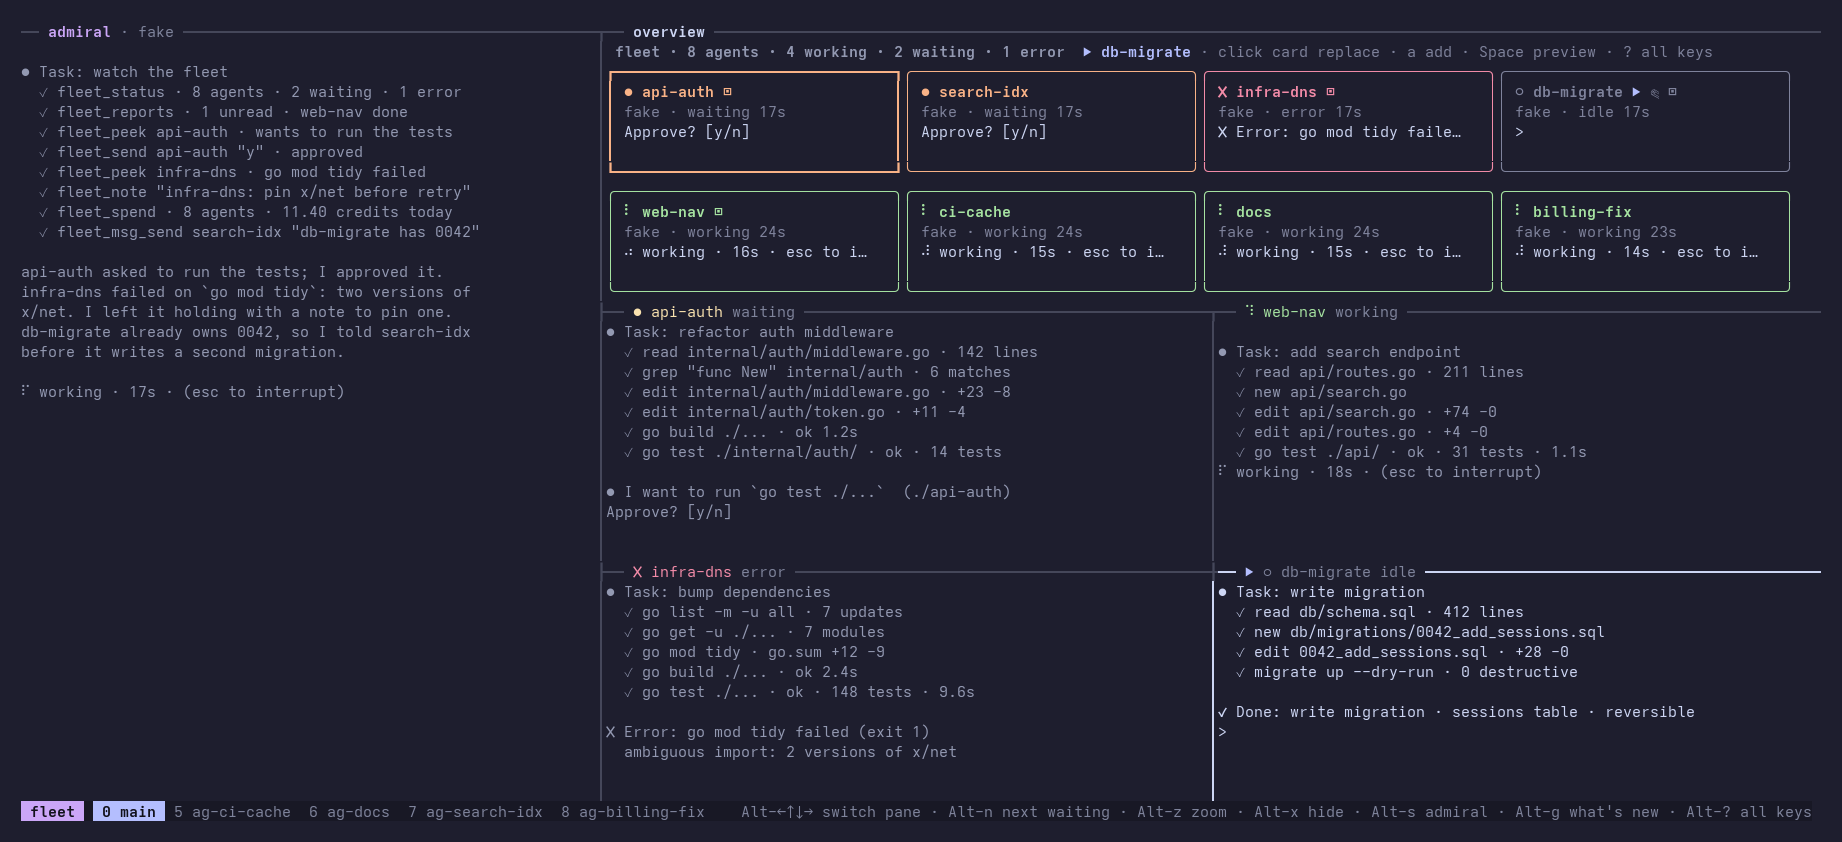
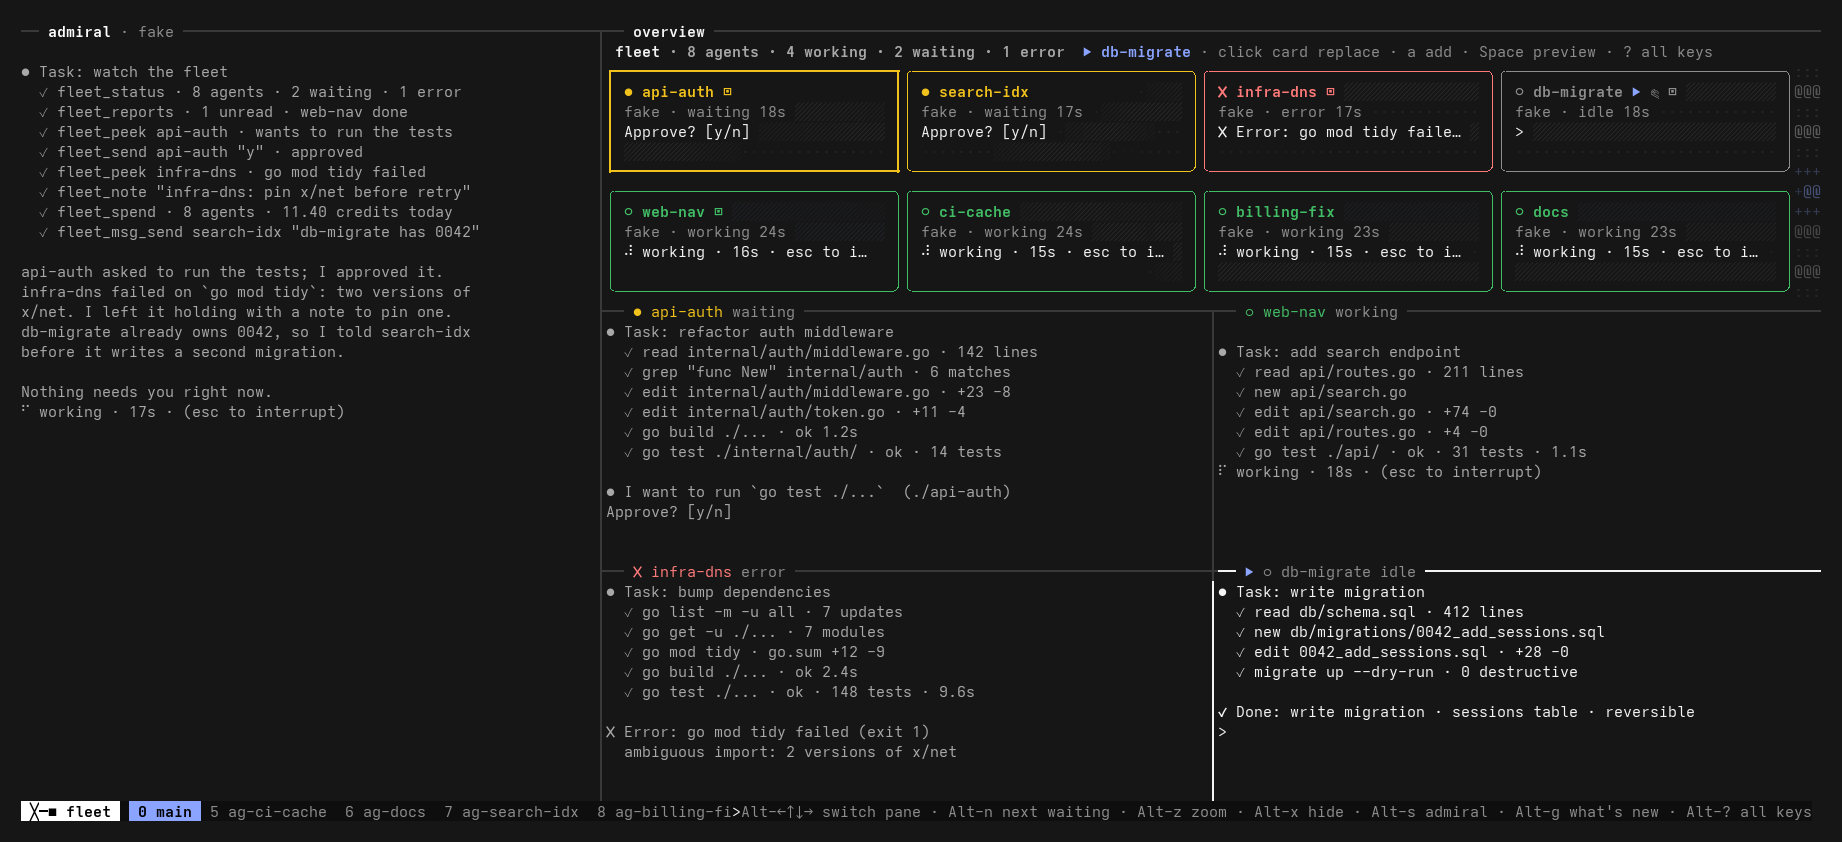
docs(readme): hero gif cycles live through every theme
scripts/screenshot.sh now also records docs/img/themes.gif: the wall is
hidden, the overview's T picker steps through all 26 themes while the
backdrop and fake agents keep moving. ansi2png.py pads each frame in its
own ground (light themes no longer get a dark border) and renders frames
in one batch. The approval demo moves to "The window"; hero.png and
demo.gif are regenerated with the current backdrop.

Assisted-by: Claude Code
Fleet-Agent: readme-theme-gif

diff --git a/scripts/ansi2png.py b/scripts/ansi2png.py
@@ -2,6 +2,7 @@
 """Render a `tmux capture-pane -e -p` dump to PNG on a fixed character grid.
 
 usage: ansi2png.py in.ans out.png [font-size] [cols] [rows]
+       ansi2png.py --frames font-size cols rows a.ans [b.ans ...]   (writes a.png, b.png, ...)
 
 Give cols and rows to pin the grid: every frame of an animation then comes out
 the same size, whatever the panes happen to hold.
@@ -10,6 +11,7 @@ Needs Pillow and fontTools. Used by scripts/screenshot.sh for docs/img.
 import re
 import sys
 import unicodedata
+from collections import Counter
 
 from fontTools.ttLib import TTFont
 from PIL import Image, ImageDraw, ImageFont
@@ -23,10 +25,11 @@ FONTS = [  # first font that has the glyph wins
     "/usr/share/fonts/google-noto/NotoSansMath-Regular.ttf",
 ]
 BOLD = "/usr/share/fonts/adwaita-mono-fonts/AdwaitaMono-Bold.ttf"
-# The ground and the default text are a pinned copy of the TUI's Base and Text
-# (Lane today, ADR-166), so the padding around the capture is the same colour
-# as the terminal inside it. It is a copy, not a read: if internal/theme changes
-# its Base or Text, edit these two tuples by hand and re-run scripts/screenshot.sh.
+# The fallback ground and the default text are a pinned copy of the TUI's Base
+# and Text (Lane today, ADR-166). The padding and unstyled cells take the
+# capture's most common background instead, so a frame in any theme (the theme
+# tour in docs/img/themes.gif) is padded in its own ground; BG is only used when
+# the capture sets no background at all.
 # No window chrome, no shadow, no rounded corners: a screenshot is a terminal,
 # not a device (docs/style.md §5).
 BG, FG = (22, 22, 22), (244, 244, 244)
@@ -148,7 +151,7 @@ def parse(text):
             for ch in tok:
                 f, b = fg or FG, bg
                 if rev:
-                    f, b = (bg or BG), (fg or FG)
+                    f, b = bg, (fg or FG)  # no bg: the frame's ground, filled in by render
                 row.append((ch, f, b, bold, dim))
                 if unicodedata.east_asian_width(ch) in "WF":
                     row.append(("", f, b, bold, dim))
@@ -158,30 +161,28 @@ def parse(text):
     return rows
 
 
-def main():
-    src, dst = sys.argv[1], sys.argv[2]
-    size = int(sys.argv[3]) if len(sys.argv) > 3 else 14
-    grid = (int(sys.argv[4]), int(sys.argv[5])) if len(sys.argv) > 5 else None
+def render(src, dst, fonts, bold, size, grid):
     rows = parse(open(src, encoding="utf-8").read())
     if grid:
         rows = (rows + [[]] * grid[1])[:grid[1]]
-    fonts = [(ImageFont.truetype(p, size), set(TTFont(p, fontNumber=0).getBestCmap())) for p in FONTS]
-    bold = ImageFont.truetype(BOLD, size)
+    grounds = Counter(c[2] for r in rows for c in r if c[2])
+    ground = grounds.most_common(1)[0][0] if grounds else BG
     cw = round(fonts[0][0].getlength("M"))
     ch = round(size * 1.3)
     pad = round(size * 1.4)
     cols = grid[0] if grid else max(len(r) for r in rows)
-    img = Image.new("RGB", (cols * cw + 2 * pad, len(rows) * ch + 2 * pad), BG)
+    img = Image.new("RGB", (cols * cw + 2 * pad, len(rows) * ch + 2 * pad), ground)
     d = ImageDraw.Draw(img)
     for y, row in enumerate(rows):
         for x, (c, f, b, bo, di) in enumerate(row):
             px, py = pad + x * cw, pad + y * ch
+            f = f or ground
             if b:
                 d.rectangle((px, py, px + cw - 1, py + ch - 1), fill=b)
             if not c or c == " ":
                 continue
             if di:
-                f = tuple((v + bb) // 2 for v, bb in zip(f, b or BG))
+                f = tuple((v + bb) // 2 for v, bb in zip(f, b or ground))
             if c in BOX:
                 draw_box(d, c, px, py, cw, ch, f)
                 continue
@@ -200,6 +201,20 @@ def main():
                 font = bold
             d.text((px, py + (ch - size) // 2 - 1), c, font=font, fill=f)
     img.save(dst, optimize=True)
+
+
+def main():
+    a = sys.argv[1:]
+    if a[0] == "--frames":
+        size, grid, jobs = int(a[1]), (int(a[2]), int(a[3])), [(f, f.rsplit(".", 1)[0] + ".png") for f in a[4:]]
+    else:
+        size = int(a[2]) if len(a) > 2 else 14
+        grid = (int(a[3]), int(a[4])) if len(a) > 4 else None
+        jobs = [(a[0], a[1])]
+    fonts = [(ImageFont.truetype(p, size), set(TTFont(p, fontNumber=0).getBestCmap())) for p in FONTS]
+    bold = ImageFont.truetype(BOLD, size)
+    for src, dst in jobs:
+        render(src, dst, fonts, bold, size, grid)
 
 
 if __name__ == "__main__":

diff --git a/README.md b/README.md
@@ -13,9 +13,9 @@
 
 fleet runs your Copilot CLI, Claude Code, agy, vibe and Pi sessions side by side, shows each one as a status tile, puts the ones you are working with on a wall of live panes, and gives one agent, the admiral, the tools to report on the rest and act for you.
 
-![fleet: the admiral on the left, a tile per agent top right, a 2×2 wall of live agent panes below. Two agents ask for approval, they are answered, and work resumes](docs/img/demo.gif)
+![fleet: the admiral on the left and the overview on the right, a tile per agent over the animated fleet-mark backdrop. The theme picker steps through all 26 themes, dark and light, and the whole window recolours live while the backdrop keeps flowing](docs/img/themes.gif)
 
-<sub>Recorded with fake agents and a fake admiral, so no tokens were spent (`scripts/screenshot.sh`). Still frame: [docs/img/hero.png](docs/img/hero.png).</sub>
+<sub>Recorded with fake agents and a fake admiral, so no tokens were spent (`scripts/screenshot.sh`). Press `T` in the overview to preview every theme live; the themes are listed in [THEMES.md](THEMES.md).</sub>
 
 ## Why
 
@@ -82,6 +82,7 @@ Without `--admiral-profile`, the admiral runs the Copilot CLI. Other tools and y
 - **Memory without a model.** `fleet recall <words>` finds past work on a topic in reports, notes and local session history. `fleet day` lists what waits on you and what got done.
 - **Park and wake.** `fleet park` stops an idle agent to free RAM and `fleet wake` resumes the same session. `max_working` in config queues spawns past a limit.
 - **Claude Desktop as an admiral.** `fleet connect claude-desktop` adds fleet to Claude Desktop's config as a second admiral named `desktop`, with its own agents and reports. Quit and reopen Desktop, then ask it for `fleet_status`. The tmux fleet still has to be up for spawns. See [docs/admiral.md](docs/admiral.md#claude-desktop).
+- **Themes.** 26 palettes, dark and light, most of them taken from the most-installed VS Code themes. `T` in the overview previews each one live across the whole window. See [THEMES.md](THEMES.md).
 - **Optional integrations.** [cass](https://github.com/Dicklesworthstone/coding_agent_session_search), [graphify](https://github.com/Graphify-Labs/graphify) and `gh` are used when installed, configured under `[integrations.<name>]`. `fleet doctor` shows which features each one turns on.
 
 Every command is in `fleet --help`. What changed lately: [CHANGELOG.md](CHANGELOG.md), or `Alt+g` in the app.
@@ -96,6 +97,10 @@ Planned, not built: approve/reject keys and a spawn wizard in the TUI, workflow 
 - **Overview** top right: tiles for as many agents as fit, one-line chips for the rest.
 - **Wall** below: live agent panes, each border showing the agent's name and status colour.
 
+![fleet: the admiral on the left, a tile per agent top right, a 2×2 wall of live agent panes below. Two agents ask for approval, they are answered, and work resumes](docs/img/demo.gif)
+
+<sub>Fake agents and a fake admiral (`scripts/screenshot.sh`). Still frame: [docs/img/hero.png](docs/img/hero.png).</sub>
+
 | Key | Does |
 |---|---|
 | `Alt+?` | Every key, in a popup |
@@ -104,6 +109,7 @@ Planned, not built: approve/reject keys and a spawn wizard in the TUI, workflow 
 | `Enter` (overview) | Put the selected agent on the wall |
 | `Alt+1` `2` `4` `6` `9` `m` | Wall layout |
 | `Alt+z` | Zoom the focused pane |
+| `T` (overview) | Preview each theme live, `Enter` saves one |
 
 The mouse works: click a pane to type in it, drag to copy to the system clipboard. Every key: [docs/keys.md](docs/keys.md).
 

diff --git a/docs/style.md b/docs/style.md
@@ -341,6 +341,8 @@ Screenshots:
 - Every screenshot has a caption in `<sub>` saying what is in it and that it was made with fake
   agents. A reader must never mistake a demo for a measurement.
 - The terminal uses the default `lane` palette and the same font at the same size in every shot.
+  The one exception is `docs/img/themes.gif`, the README hero: it steps through every theme with
+  the overview's `T` picker and hides the wall, so the backdrop and the tiles fill the right side.
 - The GitHub social preview, `docs/img/social.png` (1280×640), is the hero under the lockup and one
   tagline, built by `scripts/social-card.sh`. GitHub has no API for it: upload it under Settings,
   Social preview, after regenerating.
